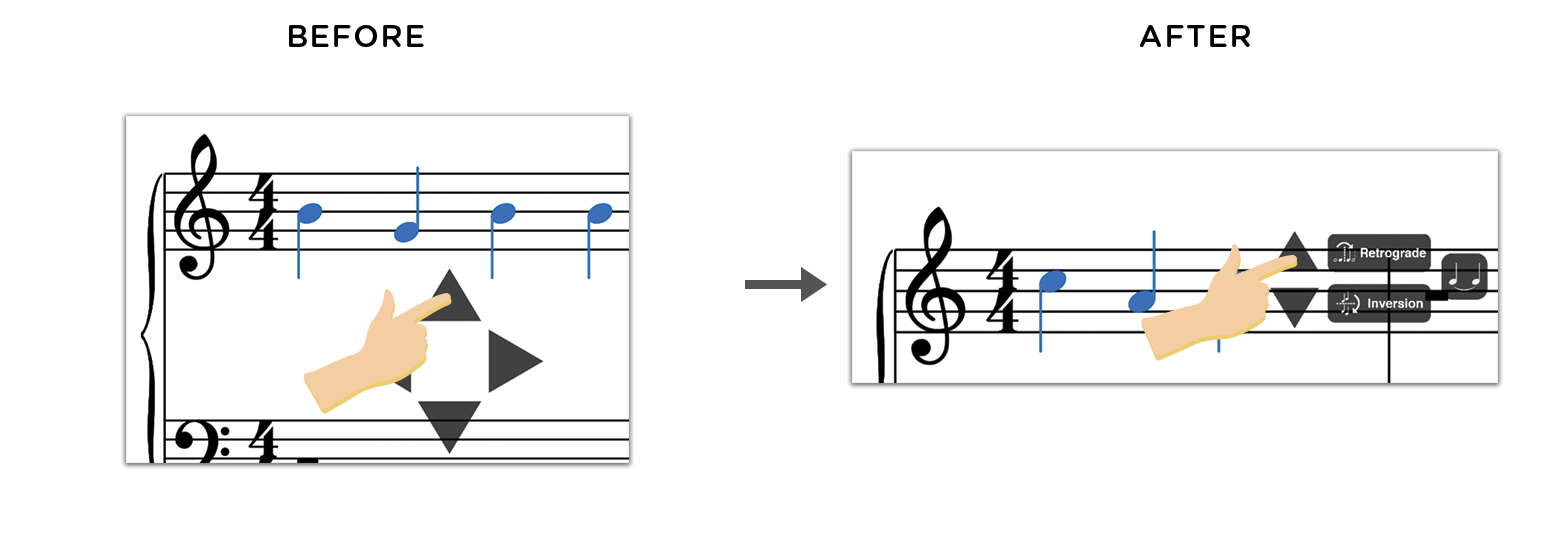
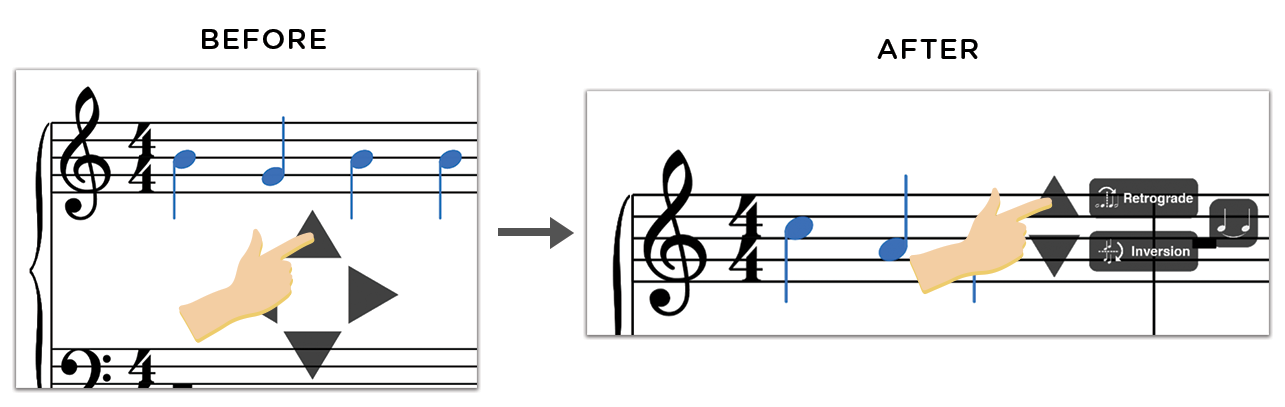
Adjust images to comments in chapter 5

diff --git a/chapter_5.tex b/chapter_5.tex
@@ -223,7 +223,7 @@
 
 				\begin{figure}[h]
 					\centering
-					\includegraphics[scale=0.28]{figures/before-after-menu}
+					\includegraphics[scale=0.31]{figures/before-after-menu}
 				    \caption{The menus before and after changes were made due to the user testing. The top menu was moved to the bottom as well so users would only have to look in one area of the screen.}
 				    \label{fig:before-after-menu}
 				\end{figure}
@@ -241,7 +241,7 @@
 
 				\begin{figure}[h]
 					\centering
-					\includegraphics[scale=0.075]{figures/before-after-playback.png}
+					\includegraphics[scale=0.273]{figures/before-after-playback.png}
 				    \caption{The music playback before and after changes were made due to the user testing. The playback was improved to also show the current note/rest that is playing.}
 				    \label{fig:before-after-playback}
 				\end{figure}
